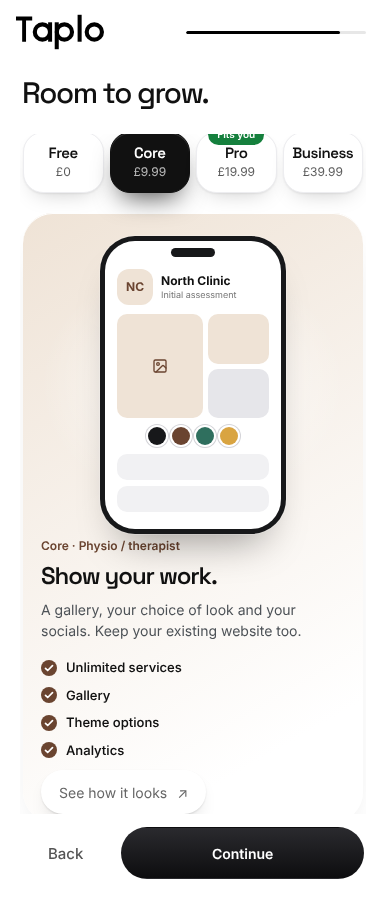
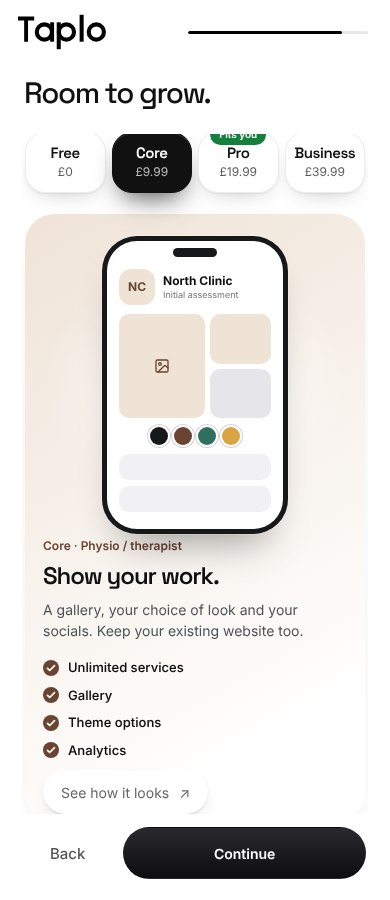
Plan chooser keeps the chosen plan when a resize reflows its rail
Claude-Session: https://claude.ai/code/session_018ov2NmuVk2PFZbq6ZGLVtP

diff --git a/src/features/marketing/PlanChooser.tsx b/src/features/marketing/PlanChooser.tsx
@@ -50,6 +50,8 @@ export function PlanChooser({
 }) {
   const rail = useRef<HTMLUListElement>(null);
   const requested = useRef<PlanId | null>(null);
+  // A resize reflows the rail and moves its scroll position; those scrolls are layout, not the visitor choosing another plan.
+  const settlingUntil = useRef(0);
   const fromScroll = useRef<PlanId | null>(null);
   const selectedRef = useRef(selected);
   useEffect(() => {
@@ -78,6 +80,7 @@ export function PlanChooser({
     const query = window.matchMedia("(max-width:767px)");
     const align = () => {
       requested.current = null;
+      settlingUntil.current = performance.now() + 400;
       if (!query.matches) return;
       const card = el.querySelector<HTMLElement>(
         `[data-plan="${selectedRef.current}"]`,
@@ -123,6 +126,7 @@ export function PlanChooser({
         onScroll={() => {
           const el = rail.current;
           if (!el || !window.matchMedia("(max-width:767px)").matches) return;
+          if (performance.now() < settlingUntil.current) return;
           const cards = Array.from(
             el.querySelectorAll<HTMLElement>("[data-plan]"),
           );
